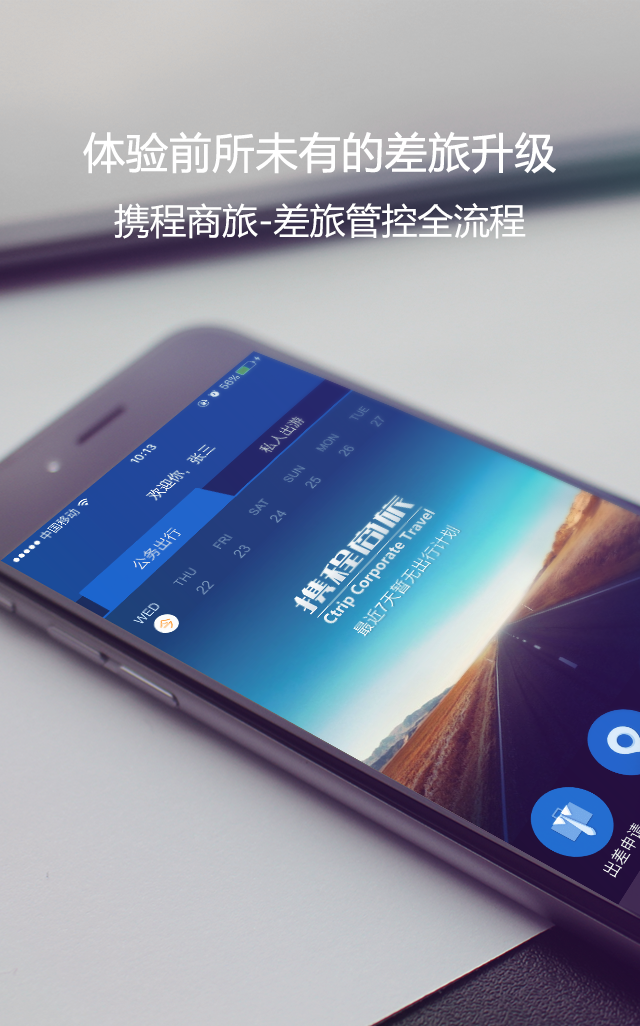
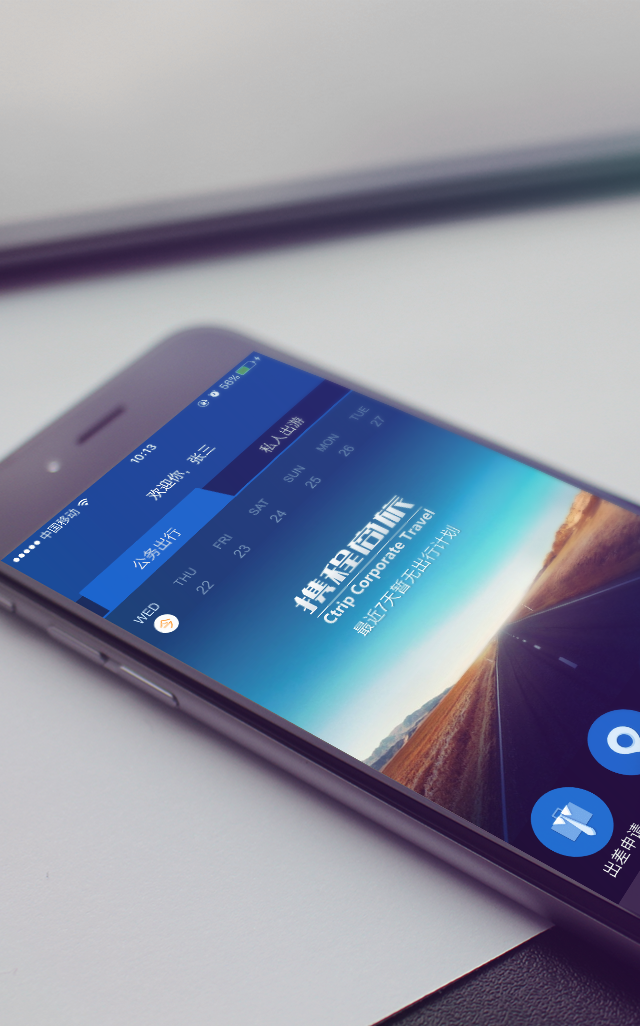
测试

Changed region(s): [[0.125, 0.1248, 0.875, 0.2495]]

diff --git a/demo/show3/test.html b/demo/show3/test.html
@@ -26,6 +26,10 @@
                 <div class="content-box">
                     <h2><a class="demo" href="jacascript:void(0)">返回目录</a><a href="jacascript:void(0)" class="title">haha</a></h2>
                     <div class="c-start">
+                        <div class="c-words">
+                            <p class="fadeInDown animated">体验前所未有的差旅升级</p>
+                            <p class="fadeInUp animated">携程商旅-差旅管控全流程</p>
+                        </div>
                         <img src="./images/logo.png" alt="" class="c-logo fadeIn animated">
                         <a class="c-ready">立刻体验</a>
                     </div>

diff --git a/demo/show3/css/main.scss b/demo/show3/css/main.scss
@@ -591,3 +591,15 @@ div .slide-text h3 {
 .tip-text {
     display: none;
 }
+.c-words {
+    text-align: center;
+    color: #fff;
+    padding-top: px2rem(88);
+    p:first-child {
+        font-size: px2rem(42);
+        margin-bottom: px2rem(10);
+    }
+    p:last-child {
+        font-size: px2rem(36);
+    }
+}

diff --git a/demo/show3/css/main.css b/demo/show3/css/main.css
@@ -497,3 +497,13 @@ div .slide-text h3 {
 
 .tip-text {
   display: none; }
+
+.c-words {
+  text-align: center;
+  color: #fff;
+  padding-top: 2.2rem; }
+  .c-words p:first-child {
+    font-size: 1.05rem;
+    margin-bottom: 0.25rem; }
+  .c-words p:last-child {
+    font-size: 0.9rem; }
